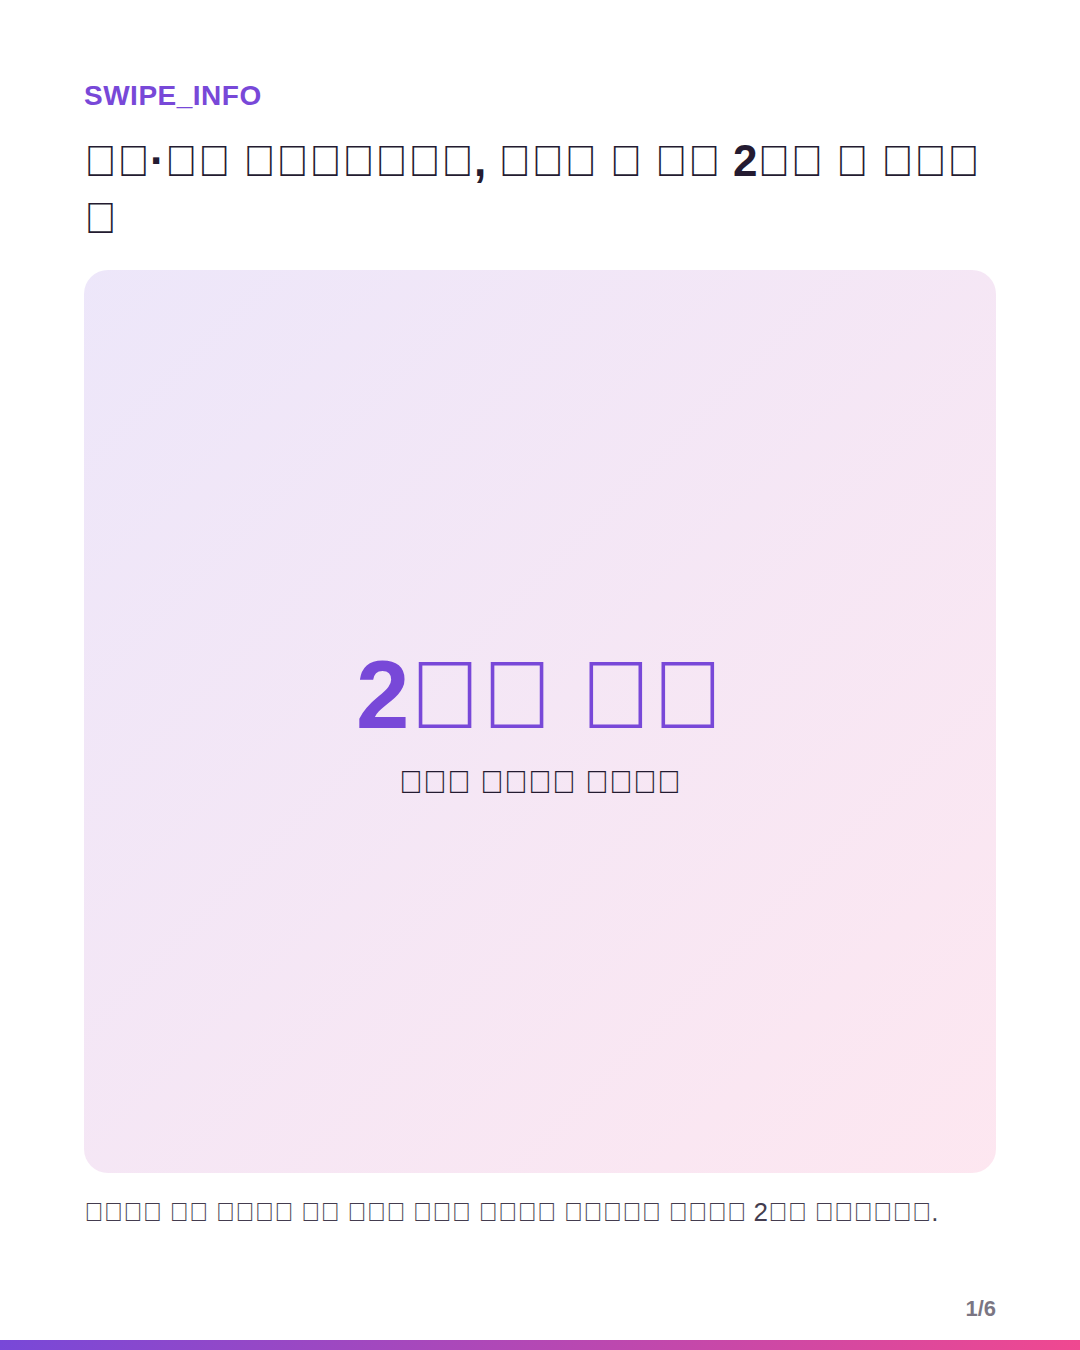
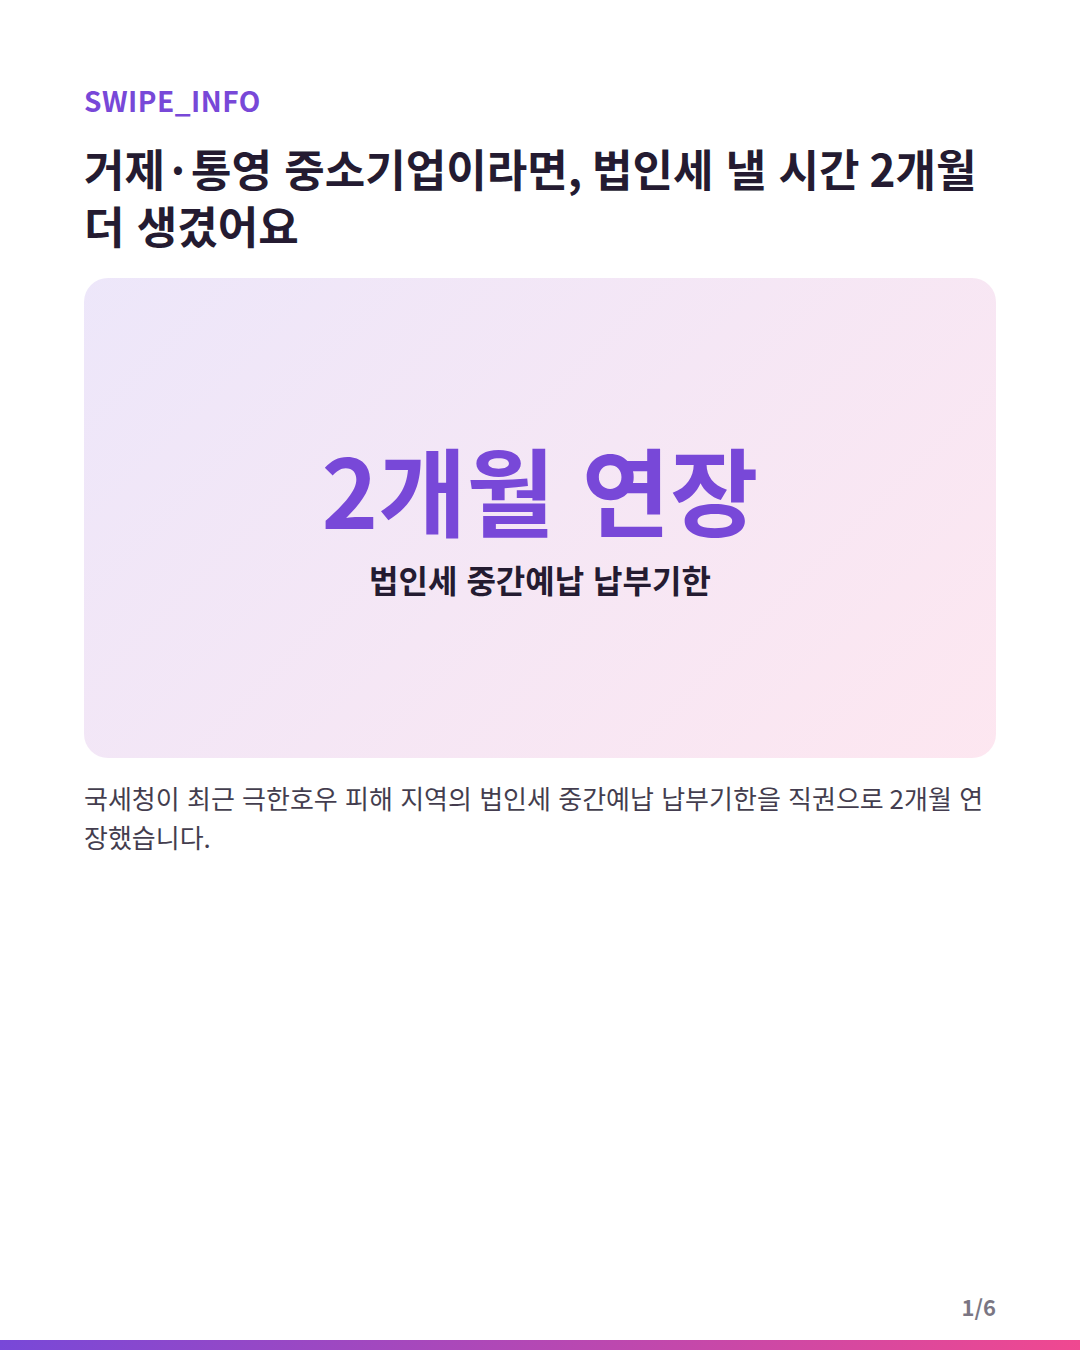
Regenerate SWIPE_INFO review page with Korean-font/layout fix (no Kakao send)

diff --git a/docs/v2/reports/swipe-info/2026-08-22/index.html b/docs/v2/reports/swipe-info/2026-08-22/index.html
@@ -31,14 +31,8 @@
   <section><h2>토픽</h2><p>거제 등 남부지방 호우 피해 지역 중소기업에 대한 신속한 세정지원 실시</p><p class="muted">검증 시각: 2026-08-22</p></section>
   <section><h2>컨택트 시트</h2><img class="contact-sheet" src="assets/contact_sheet.png" alt="contact sheet"></section>
   <section><h2>페이지 (6장)</h2><div class="page-grid"><div class="page-card"><img src="assets/page_01.png" loading="lazy" alt="page 1"><a class="dl" href="assets/page_01.png" download>page_01.png 다운로드</a></div><div class="page-card"><img src="assets/page_02.png" loading="lazy" alt="page 2"><a class="dl" href="assets/page_02.png" download>page_02.png 다운로드</a></div><div class="page-card"><img src="assets/page_03.png" loading="lazy" alt="page 3"><a class="dl" href="assets/page_03.png" download>page_03.png 다운로드</a></div><div class="page-card"><img src="assets/page_04.png" loading="lazy" alt="page 4"><a class="dl" href="assets/page_04.png" download>page_04.png 다운로드</a></div><div class="page-card"><img src="assets/page_05.png" loading="lazy" alt="page 5"><a class="dl" href="assets/page_05.png" download>page_05.png 다운로드</a></div><div class="page-card"><img src="assets/page_06.png" loading="lazy" alt="page 6"><a class="dl" href="assets/page_06.png" download>page_06.png 다운로드</a></div></div></section>
-  <section><h2>Instagram 캡션</h2><textarea readonly onclick="this.select()">거제·통영 중소기업이라면 주목하세요.
-국세청이 최근 극한호우 피해를 감안해 법인세 중간예납 납부기한을 직권으로 2개월 연장했습니다.
-
-원래 8월 말이던 납부기한이 별도 신청 없이 자동으로 늦춰져요. 거제·통영 소재 중간예납 대상 중소기업 약 1,200곳이 해당됩니다.
-
-궁금하다면 관할 세무서에 문의해보세요.
-#SWIPE_INFO #법인세 #중소기업지원 #세정지원 #호우피해지원</textarea></section>
-  <section><h2>Threads</h2><textarea readonly onclick="this.select()">거제·통영 지역 중소기업 법인세 중간예납, 8월 말 마감이 국세청 직권으로 2개월 미뤄졌어요. 호우 피해를 감안한 조치라 별도 신청도 필요 없습니다. 대상 기업이면 자동 적용되니 확인해보세요.</textarea></section>
+  <section><h2>Instagram 캡션</h2><textarea readonly onclick="this.select()"></textarea></section>
+  <section><h2>Threads</h2><textarea readonly onclick="this.select()"></textarea></section>
   <section><h2>QA</h2><p>content: <b>PASS</b> · render: <b>PASS</b></p></section>
   <section><h2>공식 출처</h2><ul><li><a href="https://www.nts.go.kr/nts/na/ntt/selectNttInfo.do?nttSn=1354268&amp;mi=2201&amp;bbsId=1028" target="_blank" rel="noopener">국세청</a> <span class="muted">(2026-08-18)</span></li></ul></section>
 </main>

diff --git a/docs/v2/reports/swipe-info/latest/index.html b/docs/v2/reports/swipe-info/latest/index.html
@@ -31,14 +31,8 @@
   <section><h2>토픽</h2><p>거제 등 남부지방 호우 피해 지역 중소기업에 대한 신속한 세정지원 실시</p><p class="muted">검증 시각: 2026-08-22</p></section>
   <section><h2>컨택트 시트</h2><img class="contact-sheet" src="assets/contact_sheet.png" alt="contact sheet"></section>
   <section><h2>페이지 (6장)</h2><div class="page-grid"><div class="page-card"><img src="assets/page_01.png" loading="lazy" alt="page 1"><a class="dl" href="assets/page_01.png" download>page_01.png 다운로드</a></div><div class="page-card"><img src="assets/page_02.png" loading="lazy" alt="page 2"><a class="dl" href="assets/page_02.png" download>page_02.png 다운로드</a></div><div class="page-card"><img src="assets/page_03.png" loading="lazy" alt="page 3"><a class="dl" href="assets/page_03.png" download>page_03.png 다운로드</a></div><div class="page-card"><img src="assets/page_04.png" loading="lazy" alt="page 4"><a class="dl" href="assets/page_04.png" download>page_04.png 다운로드</a></div><div class="page-card"><img src="assets/page_05.png" loading="lazy" alt="page 5"><a class="dl" href="assets/page_05.png" download>page_05.png 다운로드</a></div><div class="page-card"><img src="assets/page_06.png" loading="lazy" alt="page 6"><a class="dl" href="assets/page_06.png" download>page_06.png 다운로드</a></div></div></section>
-  <section><h2>Instagram 캡션</h2><textarea readonly onclick="this.select()">거제·통영 중소기업이라면 주목하세요.
-국세청이 최근 극한호우 피해를 감안해 법인세 중간예납 납부기한을 직권으로 2개월 연장했습니다.
-
-원래 8월 말이던 납부기한이 별도 신청 없이 자동으로 늦춰져요. 거제·통영 소재 중간예납 대상 중소기업 약 1,200곳이 해당됩니다.
-
-궁금하다면 관할 세무서에 문의해보세요.
-#SWIPE_INFO #법인세 #중소기업지원 #세정지원 #호우피해지원</textarea></section>
-  <section><h2>Threads</h2><textarea readonly onclick="this.select()">거제·통영 지역 중소기업 법인세 중간예납, 8월 말 마감이 국세청 직권으로 2개월 미뤄졌어요. 호우 피해를 감안한 조치라 별도 신청도 필요 없습니다. 대상 기업이면 자동 적용되니 확인해보세요.</textarea></section>
+  <section><h2>Instagram 캡션</h2><textarea readonly onclick="this.select()"></textarea></section>
+  <section><h2>Threads</h2><textarea readonly onclick="this.select()"></textarea></section>
   <section><h2>QA</h2><p>content: <b>PASS</b> · render: <b>PASS</b></p></section>
   <section><h2>공식 출처</h2><ul><li><a href="https://www.nts.go.kr/nts/na/ntt/selectNttInfo.do?nttSn=1354268&amp;mi=2201&amp;bbsId=1028" target="_blank" rel="noopener">국세청</a> <span class="muted">(2026-08-18)</span></li></ul></section>
 </main>
